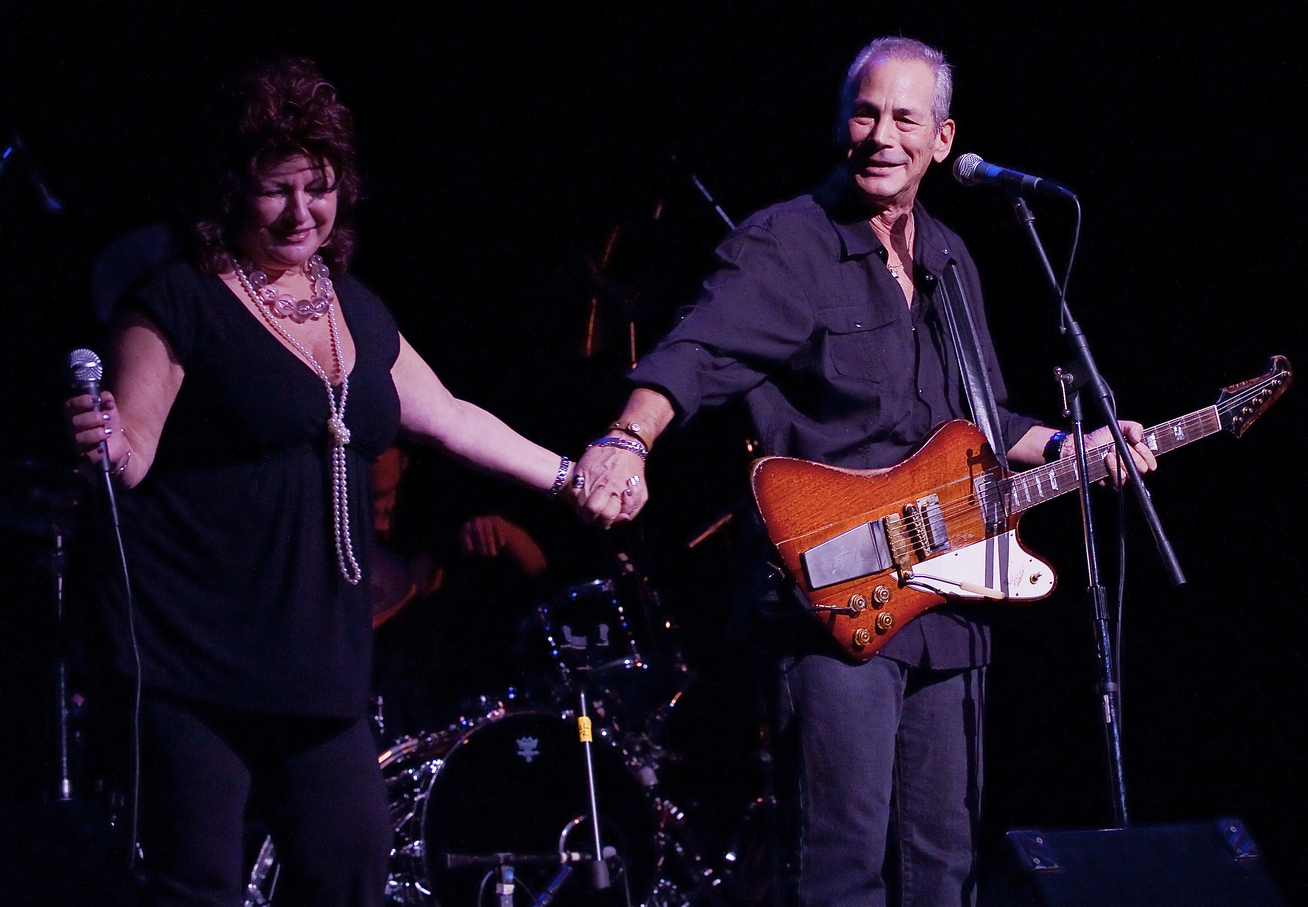
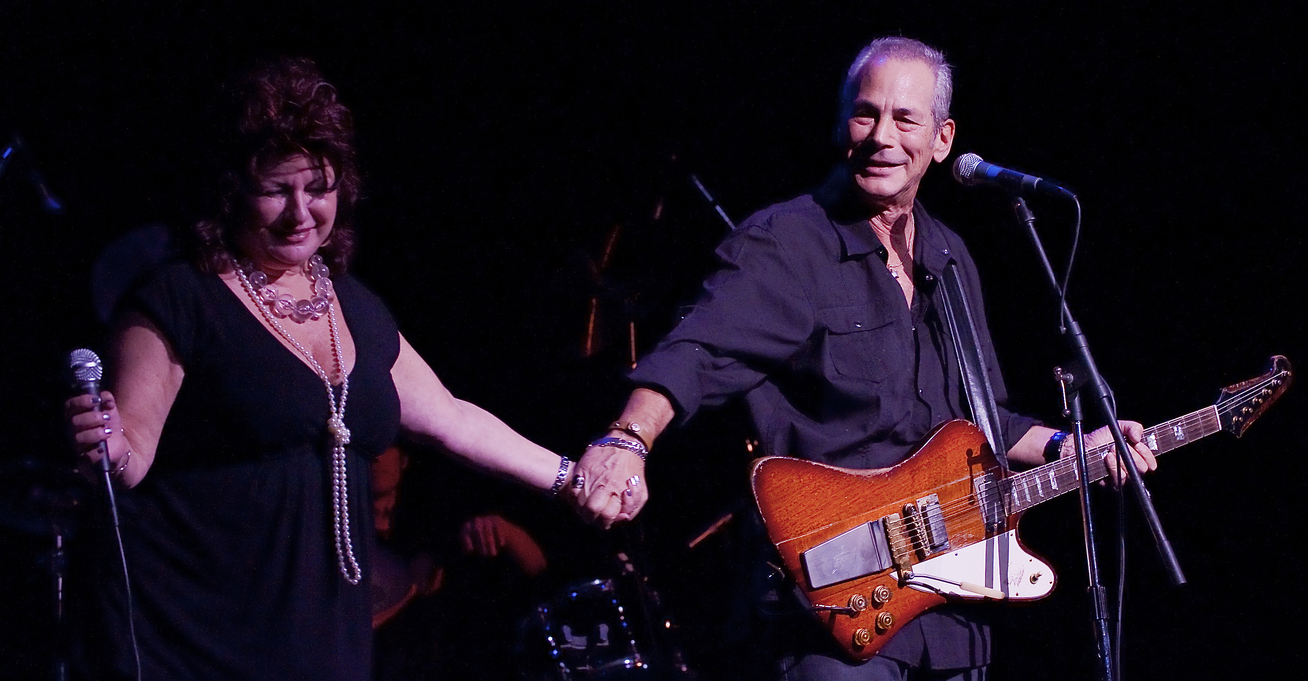
swapped images, tweaked layout to support new images, fixed some link colors

diff --git a/css/style.css b/css/style.css
@@ -67,7 +67,7 @@ ul.featuring {
     line-height: 1.8;
     margin: 5px 0; }
     ul.featuring li a {
-      color: white;
+      color: #aaccff;
       text-decoration: none; }
       ul.featuring li a:hover {
         text-decoration: underline; }
@@ -76,7 +76,7 @@ ul.featuring {
   text-align: left; }
 
 .note {
-  color: #9bd7d5;
+  color: #fff;
   margin-right: 10px; }
 
 article.how {
@@ -222,8 +222,7 @@ Internal Stylesheet from home page - fold in
 Internal Stylesheet from bio page - fold in
 *********************************************/
 #kal-david {
-  width: 30%;
-  float: left; }
+  width: 80%; }
 
 #kal-david img {
   width: 100%;
@@ -245,8 +244,9 @@ Internal Stylesheet from bio page - fold in
   font-size: 2.5em; }
 
 .performers {
-  width: 60%;
-  float: right; }
+  width: 80%;
+  margin-left: 5%;
+  font-size: 1.3em; }
 
 .band-name {
   font-weight: bold;
@@ -287,7 +287,8 @@ Internal Stylesheet from bio page - fold in
 .bio-text {
   font-size: 1.5em;
   line-height: 1.3;
-  text-align: left; }
+  text-align: left;
+  padding-left: 20px; }
 
 .bio-text a {
   color: #aaccff; }

diff --git a/scss/style.scss b/scss/style.scss
@@ -83,7 +83,7 @@ article.who {
       line-height: 1.8;
       margin: 5px 0;
       a {
-        color: white;
+        color: #aaccff;
         text-decoration: none;
         &:hover {
           text-decoration: underline;
@@ -97,7 +97,7 @@ article.who {
 }
 
 .note {
-  color: #9bd7d5;
+  color: #fff;
   margin-right: 10px;
 }
 
@@ -279,8 +279,8 @@ Internal Stylesheet from bio page - fold in
 *********************************************/
 
 #kal-david {
-  width: 30%;
-  float: left;
+  width: 80%;
+  //float: left;
 }
 
 #kal-david img {
@@ -307,8 +307,9 @@ Internal Stylesheet from bio page - fold in
 }
 
 .performers {
-  width: 60%;
-  float: right;
+  width: 80%;
+  margin-left: 5%;
+  font-size: 1.3em;
 }
 
 .band-name {
@@ -354,6 +355,7 @@ Internal Stylesheet from bio page - fold in
   line-height: 1.3;
   //max-width: 400px;
   text-align: left;
+  padding-left: 20px;
 }
 
 .bio-text a {

diff --git a/index.php b/index.php
@@ -26,28 +26,27 @@
       <h1 class="call-out">"Best thing to hit the Harbor this summer!"</h1>
 
       <article class="who clearfix">
+        <div class="featured-performer" style="width:100%;margin-left: 5%;">
+          <br>
+          <h2>
+            Featured Performer:
+          </h2>
+
+          <h1 class="kal-david-name">
+            <span class="kal-name">Kal David 	&bull;</span>
+            <span class="kal-name">Lauri Bono</span><br>
+            and the <span class="band-name">Real Deal Band</span>
+          </h1>
+          <p>
+            <a href="band-bio-kal-lauri.php" class="btn">Band Bio</a>
+          </p>
+
+        </div>
         <div id="kal-david">
-          <img src="images/kalDavid-bw.png" alt="Kal David">
+          <img src="images/kal-lauri-hands.jpg" alt="Kal David and Lauri Bono">
         </div>
 
         <div class="performers">
-          <div class="featured-performer">
-            <br>
-            <h2>
-              Featured Performer:
-            </h2>
-
-            <h1 class="kal-david-name">
-              <span class="kal-name">Kal David 	&bull;</span>
-              <span class="kal-name">Lauri Bono</span><br>
-              and the <span class="band-name">Real Deal Band</span>
-            </h1>
-            <p>
-              <a href="band-bio-kal-lauri.php" class="btn">Band Bio</a>
-            </p>
-
-          </div>
-
           <div class="also-featuring">
             <h2>Also Appearing:</h2>
             <ul class="featuring">

diff --git a/band-bio-kal-lauri.php b/band-bio-kal-lauri.php
@@ -27,7 +27,7 @@
 
       <div class="kal-lauri-container">
         <div class="kal-lauri-photo">
-          <img src="images/kal-lauri-hands.jpg" alt="Kal David and Lauri Bono">
+          <img src="images/kal-lauri-2.jpg" alt="Kal David and Lauri Bono">
         </div>
 
         <div class="kal-and-lauri-text">
